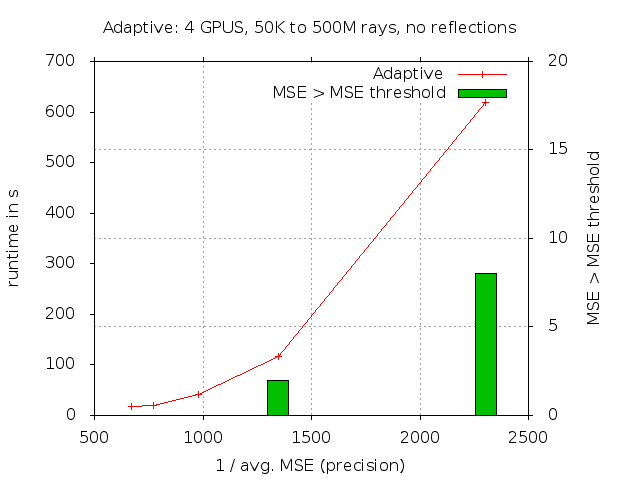
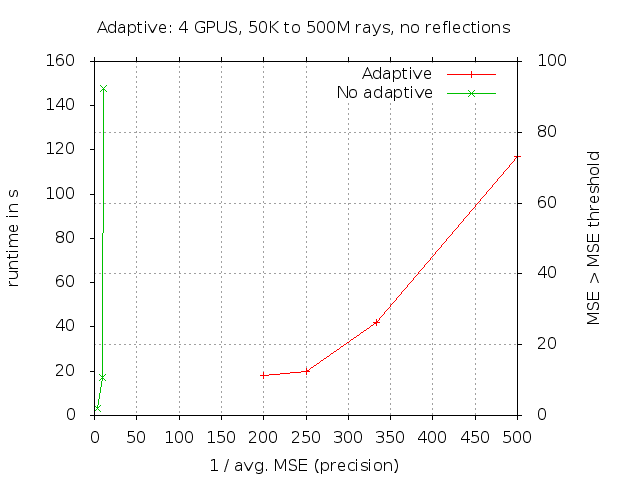
* experiments on adaptive for plot

diff --git a/paper/methods.tex b/paper/methods.tex
@@ -1,4 +1,30 @@
 \section{Methods}
+\subsection{Parallel ideas}
+
+there are several ways to exploit parallelization in the Monte Carlo simulation:
+
+\begin{description}
+
+  \item[samplepoints] ($\rightarrow$ implemented as multiGPU)
+
+    The samples from \ref{label:meshSampling} are independent from each other
+    and can therefore be calculated in parallel
+
+  \item[rays] ($\rightarrow$ implented through threads/blocks)
+    
+    Every ray can be calculated independently from each other.
+    Exploiting this parallelism provides a great opportunity to boost
+    performance. Only the resulting gains for each sample point have to be
+    combined in the end.
+
+  \item[wavelengths]
+
+    According to \label{label:monteCarlo}, the simulation of a polychromatic
+    laser can be split into sufficiently small monochromatic simulations which
+    are again completely independent from each other.
+
+\end{description}
+
 
 \subsection{Importance sampling}
 \begin{itemize}
@@ -11,11 +37,16 @@
 \end{itemize}
 
 \subsection{Adaptive rays}
+Since most sample points behave in a good way, they don't need
+to be samlped with a high number of rays. Only some outliers need to
+be simulated with a higher precision. You can quantify the precision
+and therefore the difference between the true and calculated value by
+the mean squared error (MSE).
+The adaptive method allows you to remove strong peaks in the result
+of monte carlo simulation without sampling all sample points with
+a high number of rays.
 \begin{itemize}
-\item Since most sample points behave in a good way, they don't need
-  to be samlped with a high number of rays. Only some outliers have high Mean
-  Squared Error, these need resampling.
-\item MSE in formula: 
+\item MSE: 
      \[f(\vec{r_0}) = \frac{1}{n} \sum_{i=1}^n g_i \]
      \[f^2(r_0) = \frac{1}{n} \sum_{i=1}^n g_i^2 \]
      \[MSE(r_0) = \sqrt{\frac{f^2(r_0) - f(r_0)^2}{n}}\]
@@ -30,4 +61,6 @@
   of a higher number of rays per sample point. It could also happen, that the maximum number
   of rays are not enough to reach the given MSE threshold.
 \end{itemize}
-\includegraphics[width=8cm]{plot/adaptive.png}
+\begin{center}
+  \includegraphics[width=8cm]{plot/adaptive.png}
+\end{center}

diff --git a/paper/model.tex b/paper/model.tex
@@ -91,30 +91,5 @@ The crystal is sampled and meshed into prisms
 
 
 
-\subsection{parallel ideas}
-
-there are several ways to exploit parallelization in the Monte Carlo simulation:
-
-\begin{description}
-
-  \item[samplepoints] ($\rightarrow$ implemented as multiGPU)
-
-    The samples from \ref{label:meshSampling} are independent from each other
-    and can therefore be calculated in parallel
-
-  \item[rays] ($\rightarrow$ implented through threads/blocks)
-    
-    Every ray can be calculated independently from each other.
-    Exploiting this parallelism provides a great opportunity to boost
-    performance. Only the resulting gains for each sample point have to be
-    combined in the end.
-
-  \item[wavelengths]
-
-    According to \label{label:monteCarlo}, the simulation of a polychromatic
-    laser can be split into sufficiently small monochromatic simulations which
-    are again completely independent from each other.
-
-\end{description}
 
 

diff --git a/paper/application.tex b/paper/application.tex
@@ -3,7 +3,6 @@ To reach a wide range of scientist, a MATLAB interface is provided. Once
 you included the file ``run\_octrace.m'' into your MATLAB path, you'll be able
 to call the run\_octrace function. See into the README file or the provided
 example code for interface details.
-
 \subsection{Features}
 \begin{itemize}
   \item polychromatic (multiple wavelengths)
